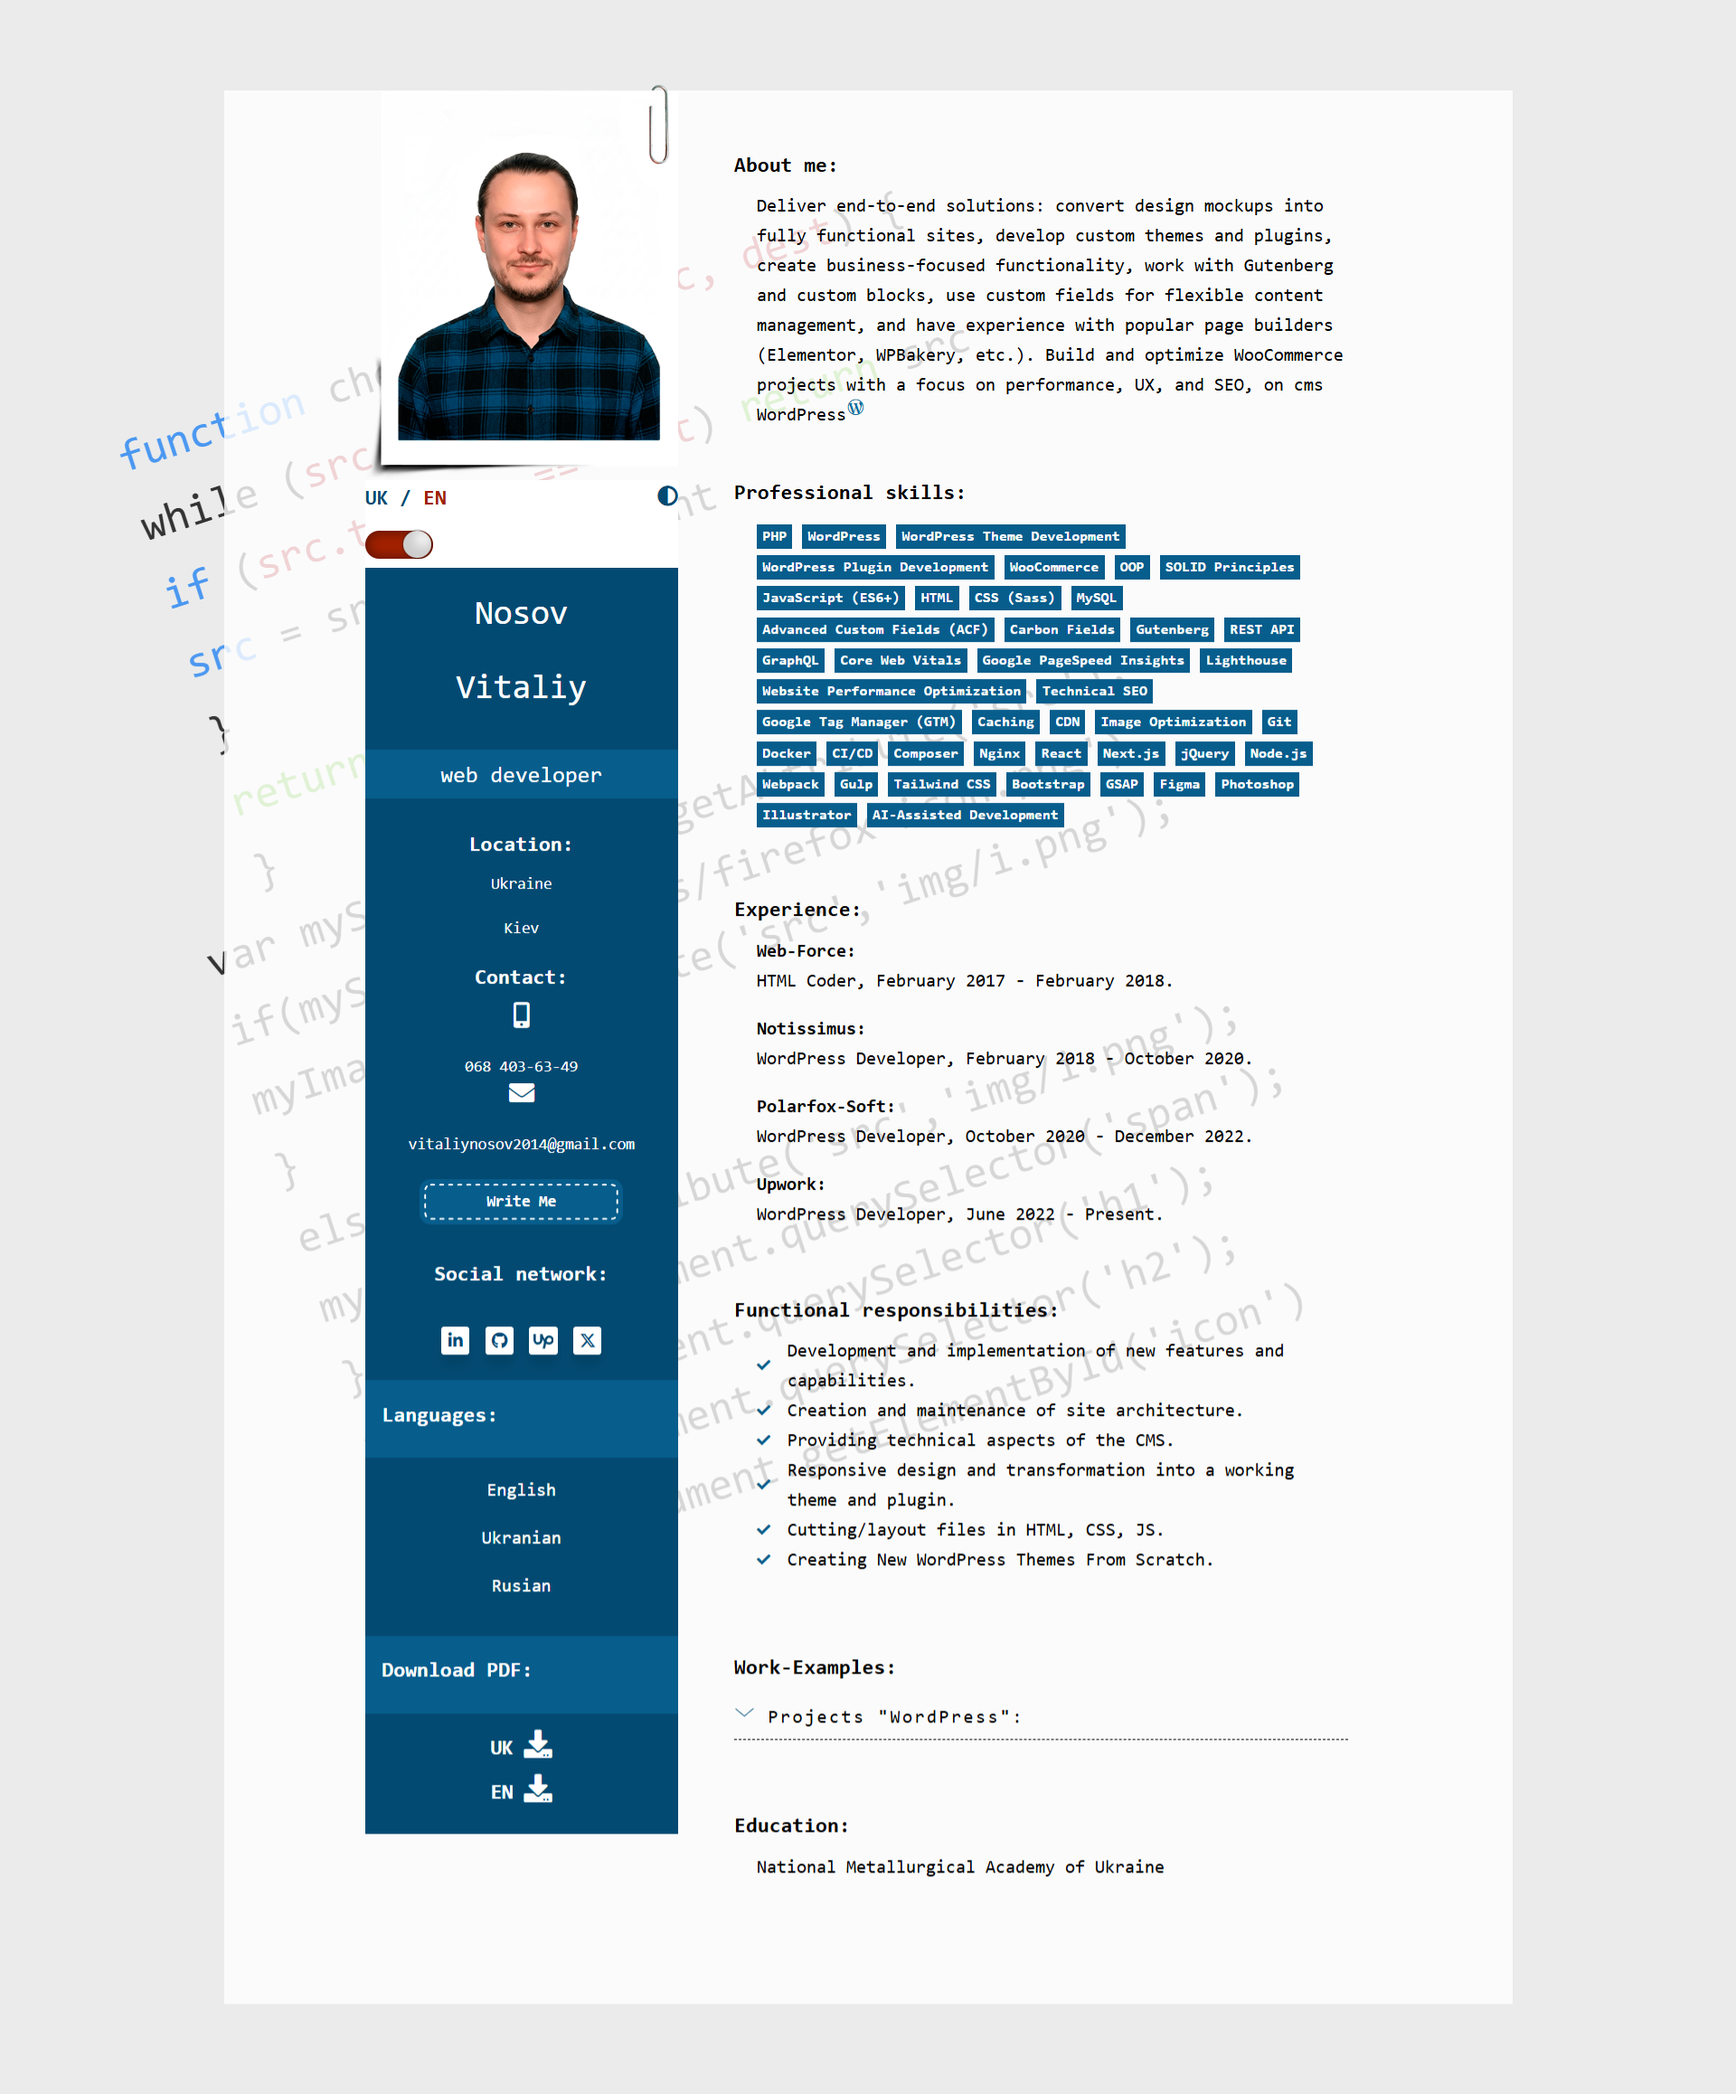
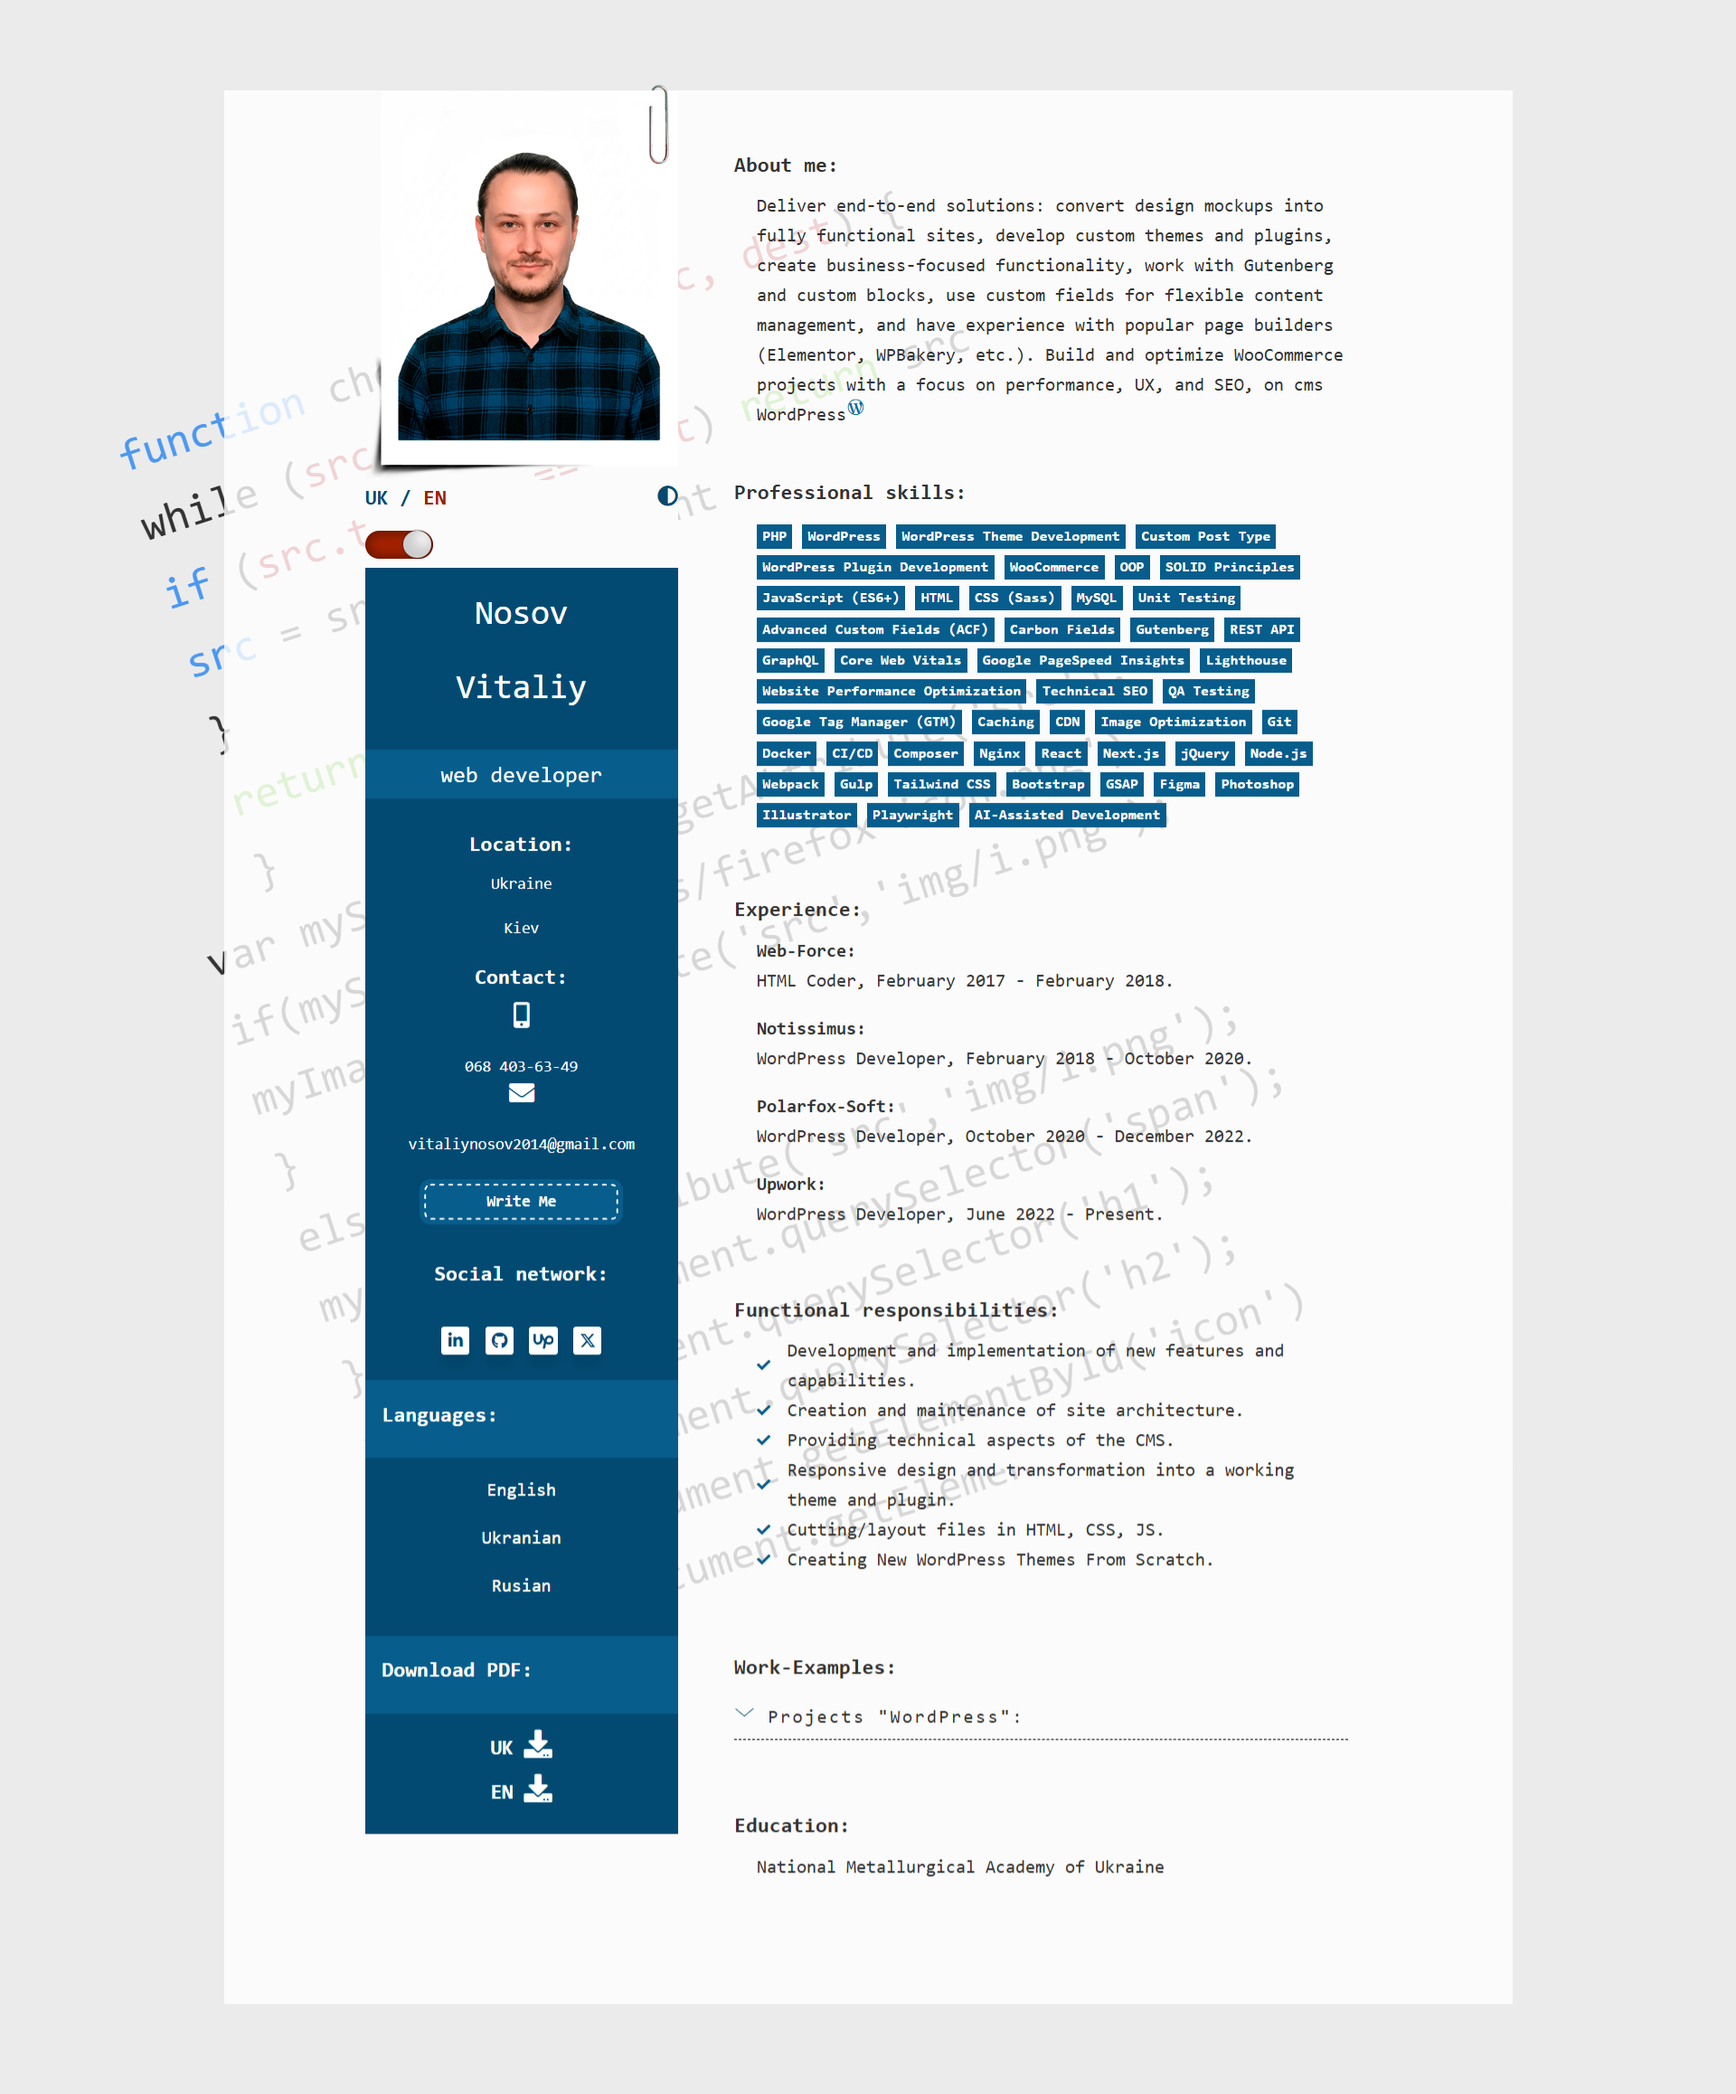
new version cv

diff --git a/index.html b/index.html
@@ -320,6 +320,7 @@
     													<span>PHP</span>
     													<span>WordPress</span>
     													<span>WordPress Theme Development</span>
+														<span>Custom Post Type</span>
     													<span>WordPress Plugin Development</span>
     													<span>WooCommerce</span>
     													<span>OOP</span>
@@ -328,6 +329,7 @@
     													<span>HTML</span>
     													<span>CSS (Sass)</span>
     													<span>MySQL</span>
+														<span>Unit Testing</span>
     													<span>Advanced Custom Fields (ACF)</span>
     													<span>Carbon Fields</span>
     													<span>Gutenberg</span>
@@ -338,6 +340,7 @@
     													<span>Lighthouse</span>
     													<span>Website Performance Optimization</span>
     													<span>Technical SEO</span>
+														<span>QA Testing</span>
     													<span>Google Tag Manager (GTM)</span>
     													<span>Caching</span>
     													<span>CDN</span>
@@ -359,6 +362,7 @@
     													<span>Figma</span>
     													<span>Photoshop</span>
     													<span>Illustrator</span>
+														<span>Playwright</span>
 														<span>AI-Assisted Development</span>
 													</p>
 												</div>
@@ -400,10 +404,10 @@
 														<div class="block__title" data-translate-key="Themes-WordPress">Проекти на «WordPress»:</div>
 														<div class="block__text">
 															<a class="work__link" target="_blank"
-																href="https://waapple.org/">https://waapple.org/</a>
+																href="https://galileo-camps.com/">https://galileo-camps.com/</a>
 															<br>
 															<a class="work__link" target="_blank"
-																href="https://www.seeintl.org/">https://www.seeintl.org/</a>
+																href="https://nalgene.com/">https://nalgene.com/</a>
 															<br>
 															<a class="work__link" target="_blank"
 																href="https://www.snopud.com/">https://www.snopud.com/</a>
@@ -412,18 +416,18 @@
 																href="https://www.daysforgirls.org/">https://www.daysforgirls.org/</a>
 															<br>
 															<a class="work__link" target="_blank"
-																href="https://github.com/VitaliyNosov/wp-bluerex">https://github.com/VitaliyNosov/WP-Bluerex</a>
+																href="https://newtwist.com/">https://newtwist.com/</a>
 															<br>
-															<a class="work__link" target="_blank" href="https://github.com/VitaliyNosov/wp-law">https://github.com/VitaliyNosov/WP-Law</a>
-															<br>
-															<a class="work__link" target="_blank"
-																href="https://github.com/VitaliyNosov/wp-clean">https://github.com/VitaliyNosov/WP-Clean</a>
+															<a class="work__link" target="_blank" href="https://coventa.be/">https://coventa.be/</a>
 															<br>
 															<a class="work__link" target="_blank"
-																href="https://github.com/VitaliyNosov/wp-stalevar">https://github.com/VitaliyNosov/WP-Stalevar</a>
+																href="https://www.parvalux.com/">https://www.parvalux.com/</a>
 															<br>
 															<a class="work__link" target="_blank"
-																href="https://github.com/VitaliyNosov/wp-rebell">https://github.com/VitaliyNosov/WP-Rebell</a>
+																href="https://www.hyro.ai/">https://www.hyro.ai/</a>
+															<br>
+															<a class="work__link" target="_blank"
+																href="https://www.nationalbeef.com/">https://www.nationalbeef.com/</a>
 														</div>
 													</div>
 												
